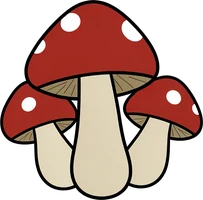
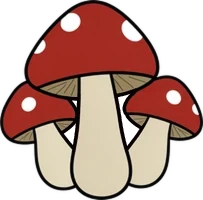
Resources lose a piece per charge: mushrooms, crystals, gold nuggets
A mushroom patch shows one mushroom per heal left, a spark crystal one crystal
per spark, and an ore vein's seven gold nuggets go in step with its charges.
The stages are cut from the current pictures by art/env/res_stages.py (no new
art); the full mushroom picture loses the white left between its stems.

Claude-Session: https://claude.ai/code/session_013FjzEVu5N9duynBx5iAndi

Changed region(s): [[0.5616, 0.45, 0.7094, 0.75], [0.2956, 0.6, 0.3842, 0.75], [0.3547, 0.48, 0.3842, 0.57]]

diff --git a/src/draw/scene.ts b/src/draw/scene.ts
@@ -1,7 +1,7 @@
 // Draws one frame of a room: walls, floor, obstacles, resources, discs and miniatures.
 // Everything is drawn in iso space through the camera, so zoom and rotation are free.
 
-import { WALL_WORDS, FAN_R, GAS_R, GAS_TURNS, HERO_BASE, HERO_FIG, INK, ENEMY_BASE, MOBS, WALL_H, TILE, mobSize } from '../data';
+import { WALL_WORDS, FAN_R, GAS_R, GAS_TURNS, HERO_BASE, HERO_FIG, INK, ENEMY_BASE, MOBS, WALL_H, TILE, mobSize, type NodeKind } from '../data';
 import { KX, KY, type Camera, type Vec } from '../camera';
 import { ART, FOOD_FLY, ZAP_T, type Bomb, type Disc, type Food, type Game, type Gas, type HeroState, type Spark, type Zap } from '../game';
 import { cellAt, floorAt, hazKey, inPit, isFloor, pitAt, type Block, type Decal, type Edge, type Mob, type Pit, type ResNode } from '../room';
@@ -22,6 +22,21 @@ const reduce = typeof matchMedia === 'function' && matchMedia('(prefers-reduced-
 
 /** Room art from the manifest; anything missing is drawn by code in the same cartoon look. */
 const env = (k: string) => envArt.get(k);
+
+/**
+ * Resource pictures: the full one (`key`) stands for a full stock and `<key>_<n>` for n of its `pieces` left, as wide as
+ * `w` either way. A mushroom is a heal and a crystal a spark, so a patch shows how many are left; an ore vein holds one
+ * to six charges by the party, so its seven gold nuggets go in step with them.
+ */
+const NODE_ART: Record<NodeKind, { key: string; pieces: number; w: number }> = {
+  ore: { key: 'ore', pieces: 7, w: 21 },
+  spk: { key: 'crystal', pieces: 3, w: 15.5 },
+  herb: { key: 'mushrooms', pieces: 3, w: 19 },
+};
+
+/** Pieces of a resource's picture still standing with `left` of its `ch` charges. */
+const nodePieces = (k: NodeKind, left: number, ch: number) =>
+  k === 'ore' ? Math.ceil((NODE_ART.ore.pieces * left) / ch) : Math.min(NODE_ART[k].pieces, left);
 
 /** The card sharp's phantom discs: pink where his disc is purple, inked the same, and see-through. */
 const PHANTOM = { col: '#f06ac6', dk: '#7a2463', ink: '#3a0c2c', alpha: 0.66 };
@@ -1088,8 +1103,12 @@ export class SceneRenderer {
   private drawNodeShape(n: ResNode, left: number, f: boolean) {
     // the cave's big vein is the same boulder, as big as its 2 × 2 cells
     const c = this.c, [x, y] = this.P(n.x, n.y), q = left / n.ch, z = n.s ?? 1;
-    const ni = env(n.k === 'ore' ? 'ore' : n.k === 'spk' ? 'crystal' : 'mushrooms');
-    if (ni) { this.standee(ni, x, y + 3 * z, (n.k === 'ore' ? 21 : n.k === 'spk' ? 15.5 : 19) * (0.6 + 0.4 * q) * z, f); return; }
+    const art = NODE_ART[n.k], ni = env(art.key);
+    if (ni) {
+      const k = nodePieces(n.k, left, n.ch);
+      this.standee((k < art.pieces && env(`${art.key}_${k}`)) || ni, x, y + 3 * z, art.w * z, f);
+      return;
+    }
     const W = (col: string) => (f ? '#ffffff' : col);
     c.lineJoin = 'round';
     if (n.k === 'ore') {
@@ -1126,7 +1145,7 @@ export class SceneRenderer {
     } else {
       // mushrooms straight on the floor, big one behind
       const sh: [number, number, number][] = [[0, -1.5, 1.35], [5, 1.5, 0.85], [-5, 1.5, 0.7]];
-      for (const [ox, oy, s] of sh.slice(0, left === n.ch ? 3 : left)) {
+      for (const [ox, oy, s] of sh.slice(0, nodePieces(n.k, left, n.ch))) {
         const mx = x + ox, my = y + oy;
         rr(c, mx - 1.6 * s, my - 6 * s, 3.2 * s, 6 * s, 1.2 * s); fs(c, W('#f1e7d0'), 1);
         c.beginPath(); c.ellipse(mx, my - 6 * s, 5.2 * s, 5 * s, 0, Math.PI, 0); c.quadraticCurveTo(mx, my - 4 * s, mx - 5.2 * s, my - 6 * s); c.closePath();

diff --git a/art/env/res_stages.py b/art/env/res_stages.py
@@ -1,0 +1,226 @@
+#!/usr/bin/env python3
+"""
+Stages of the resource pictures: a mushroom patch, a spark crystal and an ore vein lose a piece for every charge taken.
+They are cut from the full pictures in public/assets/env, so no new art is needed:
+
+  mushrooms_1, mushrooms_2   one mushroom is one heal: the right small one goes first, then the left, the big one is the last
+  crystal_1, crystal_2       one crystal is one spark: the right one goes first, then the left, the tall middle one is the last;
+                             the rock's top edge is drawn on where a crystal stood
+  ore_1 .. ore_6             as many gold nuggets as are left of the 7: each is painted over with the stone around it
+
+Every stage has the full picture's size, so it stands where the full one stood. Where a piece is taken away, what stays
+gets an outline as thick as the picture's own. The mushroom picture had white left between the stems: the full one is
+written again with those gaps cut out, and this works from the picture as it was (mushrooms_src.webp next to this script).
+
+  python3 art/env/res_stages.py [env dir]       (default public/assets/env; writes the stages next to the full pictures)
+"""
+import sys
+from pathlib import Path
+
+import numpy as np
+from PIL import Image
+from scipy import ndimage as ndi
+
+HERE = Path(__file__).resolve().parent
+ENV = Path(sys.argv[1] if len(sys.argv) > 1 else HERE.parents[1] / 'public/assets/env')
+# work at 4 × the size, so new edges come out smooth when it is scaled back
+S = 4
+# ink lines are about this many pixels thick in the pictures
+T = 4
+
+
+def load(path):
+    return np.array(Image.open(path).convert('RGBA')).astype(np.float64)
+
+
+def save(a, name):
+    Image.fromarray(np.clip(np.round(a), 0, 255).astype(np.uint8)).save(ENV / f'{name}.webp', 'WEBP', quality=90, method=6)
+    print('wrote', ENV / f'{name}.webp')
+
+
+def premul(a):
+    p = a.copy()
+    p[..., :3] *= p[..., 3:] / 255
+    return p
+
+
+def unpremul(p):
+    rgb = np.where(p[..., 3:] > 0, p[..., :3] * 255 / np.maximum(p[..., 3:], 1e-6), 0)
+    return np.concatenate([np.clip(rgb, 0, 255), np.clip(p[..., 3:], 0, 255)], -1)
+
+
+def up(a):
+    """The picture S times bigger, colours premultiplied so transparent pixels don't darken the edges."""
+    h, w = a.shape[:2]
+    p = premul(a)
+    return unpremul(np.stack([np.array(Image.fromarray(p[..., k].astype(np.float32), 'F').resize((w * S, h * S), Image.LANCZOS)) for k in range(4)], -1))
+
+
+def down(a):
+    """Back to the full picture's size: each pixel the average of its S × S block."""
+    h, w = a.shape[0] // S, a.shape[1] // S
+    return unpremul(premul(a).reshape(h, S, w, S, 4).mean((1, 3)))
+
+
+def regions(a):
+    """Ink (the black outlines), and the patches of colour between them, labelled."""
+    rgb, al = a[..., :3], a[..., 3]
+    ink = (al > 128) & (rgb.max(-1) < 80)
+    lab, _ = ndi.label((al > 128) & ~ink)
+    return ink, lab
+
+
+def parts(lab, seeds, optional=()):
+    """Which part every patch of colour belongs to: `seeds` maps a part to points (at the picture's own size) inside its
+    patches; crumbs no seed lands in go to the nearest seeded patch. A seed of an `optional` part may land on nothing."""
+    own = np.zeros(lab.shape, np.int32)
+    names = list(seeds)
+    for k, name in enumerate(names, 1):
+        for x, y in seeds[name]:
+            l = lab[y * S + S // 2, x * S + S // 2]
+            if not l and name in optional: continue
+            assert l, f'{name} seed {(x, y)} lands on ink or air'
+            own[lab == l] = k
+    _, (iy, ix) = ndi.distance_transform_edt(own == 0, return_indices=True)
+    own = np.where(lab > 0, own[iy, ix], 0)
+    return {name: own == k for k, name in enumerate(names, 1)}
+
+
+def near(mask, r):
+    return ndi.distance_transform_edt(~mask) <= r
+
+
+def ink_colour(a, ink):
+    return np.median(a[ink & (a[..., 3] > 250)][:, :3], 0)
+
+
+def finish(full, big, name):
+    """Scale the worked picture back, keeping the original's own pixels wherever nothing changed, and without the specks
+    a lost piece's outline may leave in the air."""
+    small = down(big)
+    changed = ndi.binary_dilation(np.abs(small - full).max(-1) > 3, iterations=1)
+    out = np.where(changed[..., None], small, full)
+    lab, n = ndi.label(out[..., 3] >= 1)
+    sizes = ndi.sum(np.ones(lab.shape), lab, range(1, n + 1))
+    out[np.isin(lab, [i + 1 for i in range(n) if sizes[i] < 60])] = 0
+    save(out, name)
+
+
+def without(a, ink, keep, drop, behind=None):
+    """
+    The picture with the pieces in `drop` gone. Around them what stays in `keep` is outlined again: its colour, the half
+    of each line on its side, and a stroke out from there, so the outline is as thick as elsewhere and no stub of a lost
+    piece's outline sticks out of it. Whatever is left around a lost piece is air, or drawn by `behind(out, mask)`.
+    """
+    zone = near(drop, (T + 3) * S) & ~keep
+    dk, dd = ndi.distance_transform_edt(~keep), ndi.distance_transform_edt(~drop)
+    core = keep | (ink & (dk <= T * S / 2) & (dk <= dd))
+    line = zone & near(core, T * S / 2)
+    out = a.copy()
+    rest = zone & ~line
+    if behind: behind(out, rest)
+    else: out[rest] = 0
+    out[line] = [*ink_colour(a, ink), 255]
+    return out
+
+
+def mushrooms():
+    src = HERE / 'mushrooms_src.webp'
+    full = load(src)
+    a = up(full)
+    ink, lab = regions(a)
+    p = parts(lab, {
+        'big': [(90, 40), (100, 150), (130, 82), (60, 88)],
+        'left': [(30, 110), (64, 125), (22, 135), (50, 160)],
+        'right': [(165, 105), (138, 120), (180, 130), (150, 155)],
+        'gap': [(125, 120), (74, 104), (69, 135)],
+    })
+    big, left, right, gap = p['big'], p['left'], p['right'], p['gap']
+    finish(full, without(a, ink, big | left | right, gap), 'mushrooms')
+    finish(full, without(a, ink, big | left, gap | right), 'mushrooms_2')
+    finish(full, without(a, ink, big, gap | right | left), 'mushrooms_1')
+
+
+def crystal():
+    full = load(ENV / 'crystal.webp')
+    a = up(full)
+    ink, lab = regions(a)
+    p = parts(lab, {
+        'mid': [(74, 32), (56, 34), (53, 45), (86, 46), (69, 55)],
+        'left': [(15, 70), (26, 64), (35, 81), (19, 83)],
+        'right': [(111, 61), (118, 67), (128, 70), (104, 70), (112, 79), (99, 139)],
+        'rock': [(43, 181)],
+    })
+    rock = p['rock']
+    tone, inkc = np.median(a[rock][:, :3], 0), ink_colour(a, ink)
+    # the rock's top edge where it shows, column by column at the picture's own size: the top of the grey
+    top = {}
+    for x in range(full.shape[1]):
+        ys = np.nonzero(rock[:, x * S + S // 2])[0]
+        if len(ys): top[x] = ys.min() / S
+    # under the crystals it is a low dome: on each side the edge carries on as a parabola peaking under the middle
+    # crystal, fitted to the last stretch of edge showing next to the side crystal
+    peak = 72
+    fit = {}
+    for side, xs in ((-1, range(18, 34)), (1, range(108, 124))):
+        fit[side] = np.polyfit([(x - peak) ** 2 for x in xs], [top[x] for x in xs], 1)
+    H, W = a.shape[:2]
+    X, Y = np.meshgrid((np.arange(W) + 0.5) / S, (np.arange(H) + 0.5) / S)
+    k = np.where(X < peak, fit[-1][0], fit[1][0])
+    b = np.where(X < peak, fit[-1][1], fit[1][1])
+    edge = b + k * (X - peak) ** 2
+
+    def dome(out, m):
+        # under the edge the rock's grey, on it a line as thick as the rest, above it air
+        out[m] = 0
+        out[m & (Y >= edge - T)] = [*inkc, 255]
+        out[m & (Y >= edge)] = [*tone, 255]
+
+    finish(full, without(a, ink, p['mid'] | p['left'], p['right'], dome), 'crystal_2')
+    finish(full, without(a, ink, p['mid'], p['right'] | p['left'], dome), 'crystal_1')
+
+
+def ore():
+    full = load(ENV / 'ore.webp')
+    a = up(full)
+    rgb, al = a[..., :3], a[..., 3]
+    solid = al > 128
+    gold = solid & (rgb[..., 0] > 150) & (rgb[..., 1] > 110) & (rgb[..., 2] < 140) & (rgb[..., 0] - rgb[..., 2] > 60)
+    lab, n = ndi.label(gold)
+    sizes = ndi.sum(gold, lab, range(1, n + 1))
+    nug = [i + 1 for i in np.argsort(-sizes)[:7]]
+    at = {l: np.array(ndi.center_of_mass(lab == l)) / S for l in nug}
+    # the order they stay in: the last ones left sit across the stone from each other
+    order = [(192, 110), (24, 115), (155, 23), (70, 161), (48, 43), (175, 160), (198, 67)]
+    keep = [min(nug, key=lambda l: (at[l][1] - x) ** 2 + (at[l][0] - y) ** 2) for x, y in order]
+    assert len(set(keep)) == 7
+    ink = solid & (rgb.max(-1) < 80)
+    stone = solid & ~ink & ~gold
+    inkc = ink_colour(a, ink)
+    for k in range(1, 7):
+        lost = np.zeros(gold.shape, bool)
+        for l in keep[k:]:
+            lost |= lab == l
+        # the nugget with its outline and the shade it throws; a nugget on the stone's edge leaves a bump in it
+        hole = near(lost, 6 * S) & solid
+        known = stone & ~near(ink, 2 * S) & ~hole
+        # each pixel of it takes the stone's colour nearest to it, so the stone's light and shade carry on, then the
+        # seams are softened a little
+        _, (iy, ix) = ndi.distance_transform_edt(~known, return_indices=True)
+        out = a.copy()
+        out[hole, :3] = rgb[iy, ix][hole]
+        out[hole, 3] = 255
+        soft = out[..., :3].copy()
+        for _ in range(2):
+            soft = np.stack([ndi.uniform_filter(soft[..., c], 3 * S) for c in range(3)], -1)
+            soft[~hole] = out[~hole, :3]
+        out[hole, :3] = soft[hole]
+        # and the stone's outline runs on round it
+        out[hole & near(~solid, T * S)] = [*inkc, 255]
+        finish(full, out, f'ore_{k}')
+
+
+if __name__ == '__main__':
+    mushrooms()
+    crystal()
+    ore()

diff --git a/README.md b/README.md
@@ -121,6 +121,7 @@ npm run build    # сборка в dist/
 | `cap_<этаж>` | верх каменного блока, вид строго сверху | блок складывается из кладки этажа и этой крышки, поэтому поворачивается с камерой |
 | `lava` | клетка лавы, квадрат | как плиты пола |
 | `torch`, `icicle`, `ore`, `crystal`, `mushrooms` | факел, ледяной блок склепа, руда, искры, травы | стоят картонкой |
+| `mushrooms_1`, `_2`, `crystal_1`, `_2`, `ore_1`…`_6` | стадии ресурсов: сколько грибов, кристаллов и самородков осталось; того же размера, что целая картинка | ресурс теряет кусок за каждый взятый заряд: гриб на лечение, кристалл на искру, а у жилы (1–6 зарядов по отряду) 7 самородков уходят пропорционально. `python3 art/env/res_stages.py` вырезает их из целых картинок, грибы из `art/env/mushrooms_src.webp` |
 | `banner`, `shackles` | знамя и кандалы | висят плоско на стене |
 | `disc_<герой>` | верх шайбы, вид строго сверху | крутится вместе с шайбой |
 | `food_cutlet`, `food_sausage`, `food_pie`, `food_drumstick` | еда Поварёшки, каждое блюдо на белой эмалированной тарелке с синим ободком: котлета с петрушкой, сарделька с вилкой, надкусанный пирожок, куриная ножка с косточкой | стоит картонкой, тарелка по центру клетки, куда упала, примерно в полклетки, и прилетает дугой; ширина картинки = ширина тарелки |
